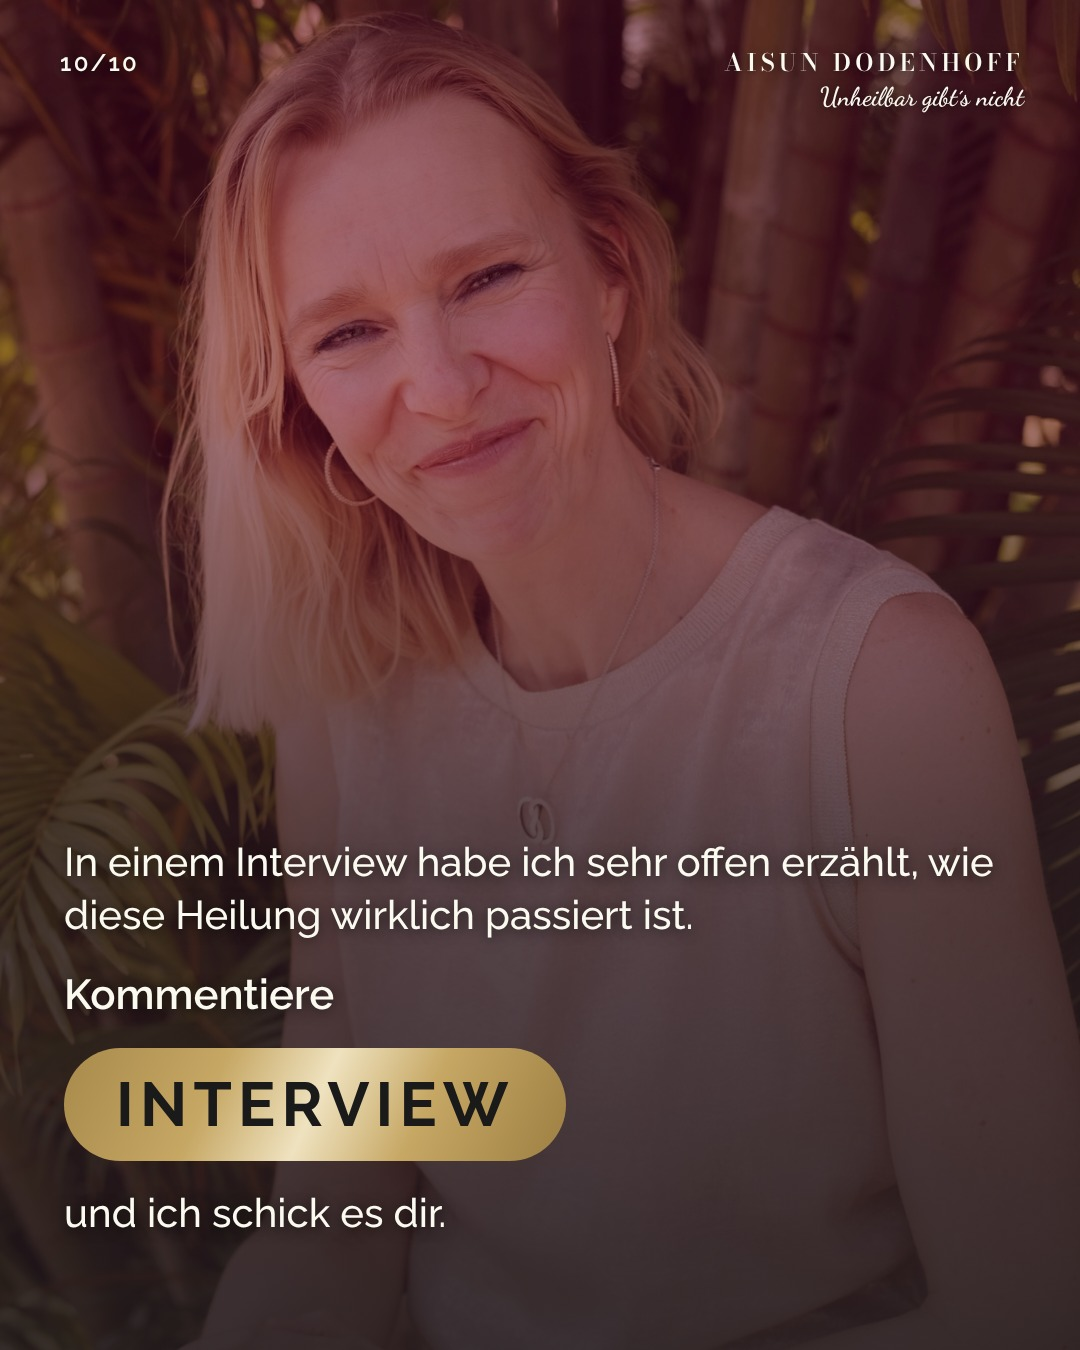
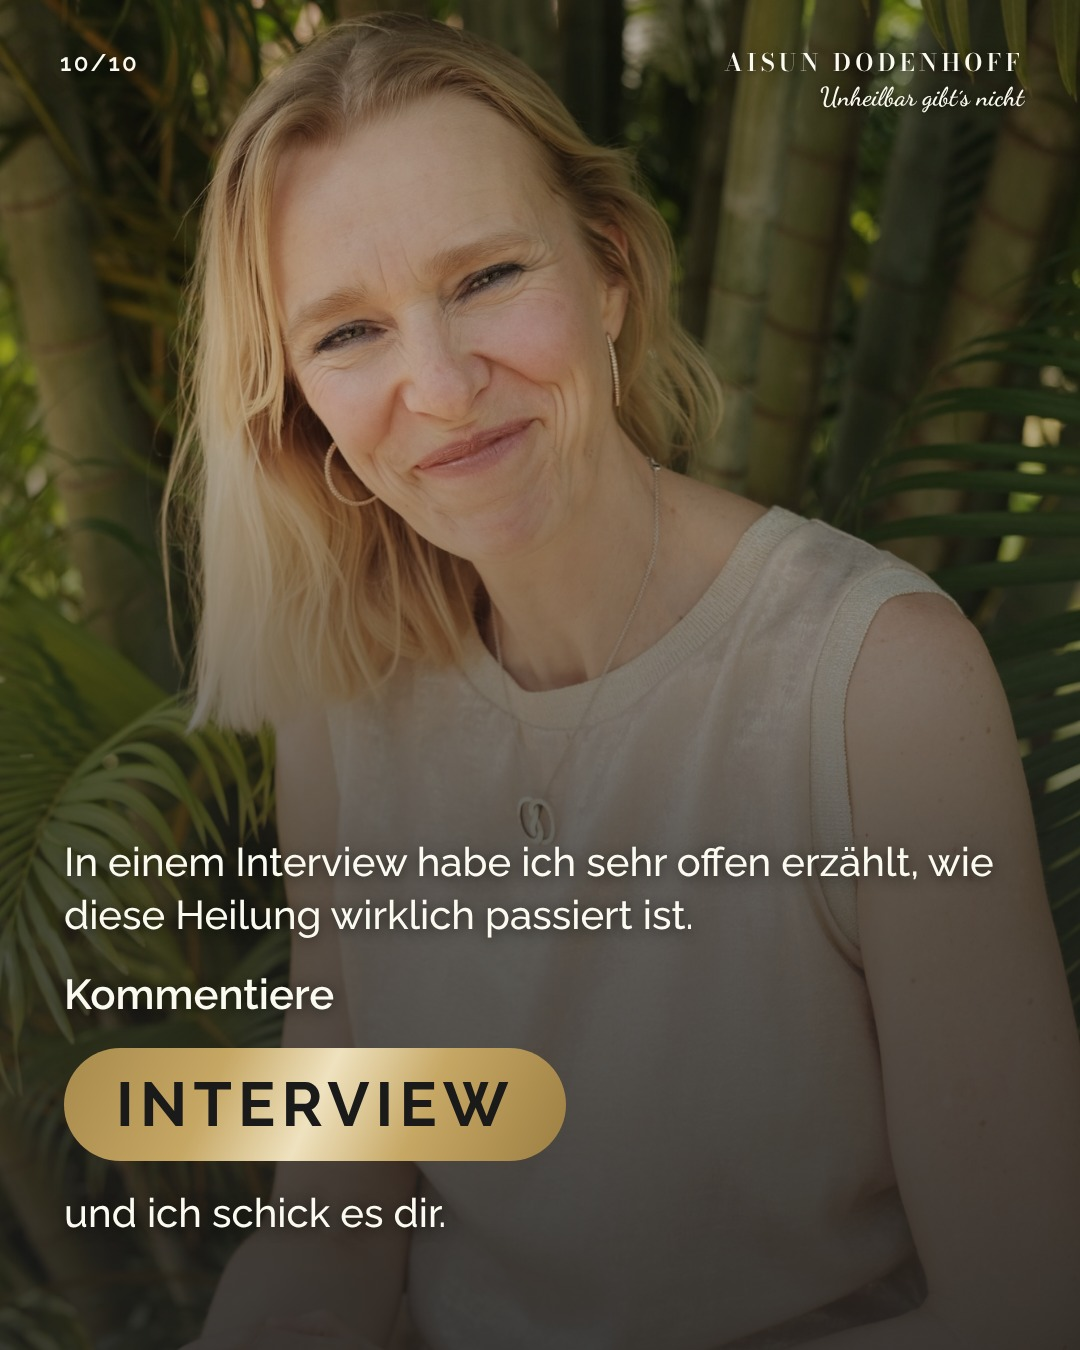
Karussell: neutrale Abdunklung statt Beere (rosastichig), Fotos aus Indien, Lernzeilen

diff --git a/content/entwuerfe/ueber-mich-story/gen.py b/content/entwuerfe/ueber-mich-story/gen.py
@@ -3,15 +3,15 @@ P="/home/user/ceo-table/content/entwuerfe/ueber-mich/fotos/"
 # (foto, bg-pos, overlay, anker, html)
 S=[
  ("f05.jpg","50% 18%",.30,"b",'<div class="q">„Darm<br>entfernen.“</div><p>Das war am Ende die Empfehlung.<br>Nach über 20 Jahren Colitis ulcerosa.</p><p class="h">Ich habe <em>Stopp</em> gesagt.</p>'),
- ("f04.jpg","50% 15%",.45,"b",'<h2>Ich kannte das <em>System</em> von innen.</h2><p>Ich bin Diplom-Psychologin und ausgebildete Psychologische Psychotherapeutin. Ich habe in Kliniken gearbeitet, in ambulanten Praxen, im 50-Minuten-Takt, mit Krankenkassenanträgen und Dokumentationspflichten.</p>'),
- ("f09.jpg","50% 10%",.42,"b",'<ul><li>Cortison.</li><li>Medikamente.</li><li>Darmspiegelungen.</li><li>Schübe.</li></ul><p>Über 20 Jahre lang.</p><h2>Schulmedizinisch: <em>unheilbar.</em></h2>'),
- ("f08.jpg","50% 12%",.45,"b",'<p>Gleichzeitig war ich viele Jahre Unternehmensberaterin, unter anderem bei der Deutschen Bahn, auf <span style="white-space:nowrap">Top-Management-Ebene</span>. Zwei sehr unterschiedliche Welten.</p><p class="h">Und in beiden dieselbe Beobachtung:</p><h2>Die eigentlichen Ursachen bleiben fast immer <em>unsichtbar.</em></h2>'),
- ("f02.jpg","50% 45%",.50,"t",'<p>In der Therapie wurde ein Symptom behandelt. In der Beratung eine Struktur optimiert.</p><h2>Aber <em>warum</em> ist das überhaupt entstanden?</h2><p>Was will das System eigentlich sagen? Die Frage stellte kaum jemand. Ich habe sie gestellt.</p>'),
- ("f06.jpg","50% 15%",.45,"b",'<div class="yr">2016.</div><p>Da bin ich zum ersten Mal Uwe Albrecht und innerwise begegnet.</p><p class="h">In wenigen Tagen habe ich eine Tiefe erlebt, die ich in Jahren psychotherapeutischer Ausbildung nicht gesehen hatte.</p>'),
- ("f14.jpg","50% 15%",.45,"b",'<p>Ich habe energetisch gearbeitet.<br>Nicht von heute auf morgen,<br>mit Hilfe anderer energetischer Coaches.</p><h2>Und ich habe meine Colitis <em>geheilt.</em></h2><p class="s">Das ist meine Geschichte, keine Anleitung.</p>'),
- ("f07.jpg","50% 12%",.32,"b",'<p>Ich helfe dir nicht, indem ich deine Probleme für dich löse.</p><h2>Ich zeige dir, wie du wieder Zugang zu deiner eigenen <em>Wahrnehmung</em> findest.</h2><p>Und zu deiner Entscheidungsfähigkeit.</p>'),
- ("f12.jpg","55% 25%",.34,"b",'<h2 class="m">Der wichtigste Experte für deinen Körper <em>bist du selbst.</em></h2>'),
- ("f15.jpg","50% 14%",.40,"b",'<p>In einem Interview habe ich sehr offen erzählt, wie diese Heilung wirklich passiert ist.</p><p class="h">Kommentiere</p><div class="kw">INTERVIEW</div><p>und ich schick es dir.</p>'),
+ ("f04.jpg","50% 15%",.30,"b",'<h2>Ich kannte das <em>System</em> von innen.</h2><p>Ich bin Diplom-Psychologin und ausgebildete Psychologische Psychotherapeutin. Ich habe in Kliniken gearbeitet, in ambulanten Praxen, im 50-Minuten-Takt, mit Krankenkassenanträgen und Dokumentationspflichten.</p>'),
+ ("f09.jpg","50% 10%",.30,"b",'<ul><li>Cortison.</li><li>Medikamente.</li><li>Darmspiegelungen.</li><li>Schübe.</li></ul><p>Über 20 Jahre lang.</p><h2>Schulmedizinisch: <em>unheilbar.</em></h2>'),
+ ("f08.jpg","50% 12%",.30,"b",'<p>Gleichzeitig war ich viele Jahre Unternehmensberaterin, unter anderem bei der Deutschen Bahn, auf <span style="white-space:nowrap">Top-Management-Ebene</span>. Zwei sehr unterschiedliche Welten.</p><p class="h">Und in beiden dieselbe Beobachtung:</p><h2>Die eigentlichen Ursachen bleiben fast immer <em>unsichtbar.</em></h2>'),
+ ("f02.jpg","50% 45%",.30,"t",'<p>In der Therapie wurde ein Symptom behandelt. In der Beratung eine Struktur optimiert.</p><h2>Aber <em>warum</em> ist das überhaupt entstanden?</h2><p>Was will das System eigentlich sagen? Die Frage stellte kaum jemand. Ich habe sie gestellt.</p>'),
+ ("f06.jpg","50% 15%",.30,"b",'<div class="yr">2016.</div><p>Da bin ich zum ersten Mal Uwe Albrecht und innerwise begegnet.</p><p class="h">In wenigen Tagen habe ich eine Tiefe erlebt, die ich in Jahren psychotherapeutischer Ausbildung nicht gesehen hatte.</p>'),
+ ("f14.jpg","50% 15%",.30,"b",'<p>Ich habe energetisch gearbeitet.<br>Nicht von heute auf morgen,<br>mit Hilfe anderer energetischer Coaches.</p><h2>Und ich habe meine Colitis <em>geheilt.</em></h2><p class="s">Das ist meine Geschichte, keine Anleitung.</p>'),
+ ("f07.jpg","50% 12%",.30,"b",'<p>Ich helfe dir nicht, indem ich deine Probleme für dich löse.</p><h2>Ich zeige dir, wie du wieder Zugang zu deiner eigenen <em>Wahrnehmung</em> findest.</h2><p>Und zu deiner Entscheidungsfähigkeit.</p>'),
+ ("f12.jpg","55% 25%",.30,"b",'<h2 class="m">Der wichtigste Experte für deinen Körper <em>bist du selbst.</em></h2>'),
+ ("f15.jpg","50% 14%",.30,"b",'<p>In einem Interview habe ich sehr offen erzählt, wie diese Heilung wirklich passiert ist.</p><p class="h">Kommentiere</p><div class="kw">INTERVIEW</div><p>und ich schick es dir.</p>'),
 ]
 css="""*{margin:0;padding:0;box-sizing:border-box}html,body{width:1080px;height:1350px;overflow:hidden;background:#1A1A1A}
 .bg{position:absolute;inset:0;width:100%;height:100%;object-fit:cover}
@@ -34,5 +34,5 @@ css="""*{margin:0;padding:0;box-sizing:border-box}html,body{width:1080px;height:
 head='<!doctype html><html lang="de"><head><meta charset="utf-8"><link href="https://fonts.googleapis.com/css2?family=Bodoni+Moda:ital,opsz,wght@0,6..96,400..800;1,6..96,400..800&family=Raleway:ital,wght@0,500;0,600;0,700;1,500&family=Dancing+Script:wght@500..700&display=swap" rel="stylesheet"><style>'+css+'</style></head><body>'
 for i,(f,pos,dk,anc,html) in enumerate(S,1):
     grad = "linear-gradient(0deg,rgba(26,26,26,.78) 0%,rgba(26,26,26,.55) 38%,rgba(26,26,26,0) 70%)" if anc=="b" else "linear-gradient(180deg,rgba(26,26,26,.78) 0%,rgba(26,26,26,.5) 40%,rgba(26,26,26,0) 72%)"
-    d=head+f'<img class="bg" src="file://{P}{f}" style="object-position:{pos}"><div class="ov" style="background:rgba(115,1,58,{dk})"></div><div class="ov" style="background:rgba(0,0,0,.16)"></div><div class="ov" style="background:{grad}"></div><div class="brand">AISUN DODENHOFF<i>Unheilbar gibt´s nicht</i></div><div class="n">{i}/10</div><div class="tx {anc}">{html}</div>'+('<div class="sw">WEITER →</div>' if i<10 else '')+'</body></html>'
+    d=head+f'<img class="bg" src="file://{P}{f}" style="object-position:{pos}"><div class="ov" style="background:rgba(26,26,26,{dk})"></div><div class="ov" style="background:{grad}"></div><div class="brand">AISUN DODENHOFF<i>Unheilbar gibt´s nicht</i></div><div class="n">{i}/10</div><div class="tx {anc}">{html}</div>'+('<div class="sw">WEITER →</div>' if i<10 else '')+'</body></html>'
     open(f'/tmp/claude-0/-home-user-ceo-table/98fccc0b-51e2-52b4-9177-97ef7eb9be37/scratchpad/us{i:02d}.html','w').write(d)

diff --git a/content/entwuerfe/ueber-mich/gen3.py b/content/entwuerfe/ueber-mich/gen3.py
@@ -6,7 +6,7 @@ S=[
    L("Diplom-Psychologin,<br>ehemalige<br>Psychotherapeutin","r",170,39,0),L("Mentorin für<br>energetische<br>Selbstheilung","r",430,40,0),L("Generatorin 4/6","r",640,40,2),L("Berlin · Heidenheim","r",750,40,0)]),
  dict(img="f10.jpg",pos="50% 60%",dark=.30,title="Dinge, die ich liebe",trot=0,tsize=104,labels=[
    L("Laufen,<br>jeden Morgen","l",330,44,0),L("Meine Familie","l",520,48,-2),L("Sauna im<br>eigenen Garten","l",680,44,0),
-   L("Frauen begleiten,<br>die ihre eigene<br>Heilerin werden","r",300,44,0),L("Rohkakao","r",560,44,0),L("Reisen<br><small>(hier: Ägypten)</small>","r",700,40,2),L("Abwechslung","r",880,44,0)]),
+   L("Frauen begleiten,<br>die ihre eigene<br>Heilerin werden","r",300,44,0),L("Rohkakao","r",560,44,0),L("Reisen<br><small>(hier: Indien)</small>","r",700,40,2),L("Abwechslung","r",880,44,0)]),
  dict(img="f09.jpg",pos="50% 30%",dark=.45,title="Meine tiefsten Täler",trot=0,tsize=104,labels=[
    L("Meine Schwester<br>starb 2023<br>an Krebs","l",380,40,0),L("1 Fehlgeburt<br>2023","l",640,40,0),L("Sexueller<br>Missbrauch","l",860,40,0),
    L("22 Jahre<br>Colitis Ulcerosa","r",380,40,0),L("2x geschieden","r",640,40,0),L("Meine Tochter<br>starb 2011<br>bei der Geburt","r",840,40,0)]),

diff --git a/lernen/gelernt.md b/lernen/gelernt.md
@@ -47,4 +47,6 @@ Gilt für alle Agentinnen. Sebastian pflegt diese Datei, eine Zeile pro Erkenntn
 - Visuelle Entwürfe nie ohne Abnahme der fertigen Bilder durch Greta vorlegen. Aisun tritt als seriöse Expertin auf: Überschriften gerade, ruhig; Schräges nur sparsam bei einzelnen Punkten (25.10.2026).
 - 28.10.2026: Nie direkt losbauen, auch nicht bei fertigem Briefing. Erst CEO-Prüfung (Bestand, Überschneidungen, Sinn, Lücken, Herkunft), dann Empfehlung an Aisun, dann bauen. Anlass: Content-Tab gebaut, ohne das leere Trello-Board, die Freigabe-Pakete und Sinas Wochentags-Daten zu prüfen.
 - 2.11.2026: Bei Funnel-, Mail- und Anzeigenfragen erst das Gesamtsystem einordnen (Anzeigen → Aufwärmen → Launch → Folgeprodukte, was soll jeder Teil leisten?), dann Details. Eine Anzeigen-Bilanz nie ohne den Launch bewerten. Aisun will Entscheidungen und Zusammenhänge, keine Wording-Listen. Anlass: Nurture-Analyse mit Einzelwörtern und „Gewinn −4.136 €“ ohne Launch-Bezug.
-- 2026-11-06 – KI-Klang vermeiden (Aisun): Wenn Aisun einen eigenen Text liefert (Newsletter, Interview), die Slides und die Caption aus ihren Originalsätzen bauen, nicht neu formulieren. Kein „Nicht X, sondern Y“, kein „Genau deshalb.“, keine Erzählung im Präsens („Ich lerne … kennen“), keine selbst erfundenen Zusatzsätze. Vor Vorlage jede Zeile gegen den Originaltext prüfen.
+- 2026-11-06 – KI-Klang vermeiden (Aisun): Verboten ist das Muster „Nicht X, sondern Y“ (auch „Du brauchst nicht … Werde …“), dazu Knallersätze wie „Genau deshalb.“ und Erzählen im Präsens. Aisuns Originalsätze müssen nicht 1:1 bleiben, Optimieren ist ausdrücklich erlaubt, es soll nur nie nach KI klingen. Keine Zusatzbehauptungen erfinden, die nicht von ihr stammen.
+- 2026-11-06 – Die Fotos in `content/entwuerfe/ueber-mich/fotos/` (beiger Look, Palmen) sind aus **Indien**, nicht aus Ägypten (Aisun). Nie „Ägypten“ dazu schreiben.
+- 2026-11-06 – Bildfarbe: Auf dem Handy wirkten Karussells mit Beere-Overlay rosastichig. Fotos nur neutral abdunkeln (schwarzer Verlauf), Beere höchstens ganz dezent (max. 12 %), und immer am Handy gegenprüfen.

diff --git a/content/entwuerfe/ueber-mich-story/karussell-text.md b/content/entwuerfe/ueber-mich-story/karussell-text.md
@@ -11,7 +11,7 @@ Status: Text-Entwurf, Gate bestanden (9/10). Noch NICHT gebaut, NICHT freigegebe
 - **Phase:** Reichweite / Aufwärmen. **Keyword:** **KOMPASS** (aus der echten Map, Heilkompass, 0 €).
 - **Blickwinkel:** Ich-Geschichte aus beiden Rollen (Insiderin des Systems und Betroffene). **Tonfall:** ruhig, klar, mit einer scharfen Kante auf Slide 1. Kein Pathos.
 - **Posting:** Mo bis Fr 12 Uhr, Termin nach Aisuns Freigabe.
-- **Look:** Foto aus dem Ägypten-Set (beiger Look, Palmen) im Hintergrund jeder Slide, Beere-Overlay `#73013A` 55 bis 65 %, Headline Bauer Bodoni (HTML-Fallback Bodoni Moda 500, opsz 11) in Creme `#FBFAF0`, Fließtext Raleway 500. Eine Akzentfarbe: Gold `#C6A764`, nur auf dunklem Grund. Format 4:5 (1080 × 1350), Slide-Zähler oben rechts, Gesicht nie vom Text verdeckt.
+- **Look:** Foto aus dem Indien-Set (beiger Look, Palmen) im Hintergrund jeder Slide, Beere-Overlay `#73013A` 55 bis 65 %, Headline Bauer Bodoni (HTML-Fallback Bodoni Moda 500, opsz 11) in Creme `#FBFAF0`, Fließtext Raleway 500. Eine Akzentfarbe: Gold `#C6A764`, nur auf dunklem Grund. Format 4:5 (1080 × 1350), Slide-Zähler oben rechts, Gesicht nie vom Text verdeckt.
 
 **Titel-Hinweis (aktualisiert 6.11.):** Aisun hat entschieden: „ausgebildete Psychologische Psychotherapeutin“ bleibt in Werdegangs- und Selbstvorstellungs-Texten, sofern klar ist, dass sie nicht mehr als solche arbeitet.
 

diff --git a/content/entwuerfe/ueber-mich/konzept.md b/content/entwuerfe/ueber-mich/konzept.md
@@ -5,3 +5,5 @@ Slides: 1 Das bin ich · 2 Dinge, die ich liebe · 3 Meine tiefsten Täler · 4 
 Hook-Alternativen Slide 1: „19x umgezogen. 2x geschieden. 0,0 Alkohol. Hi, ich bin Aisun.“ · „22 Jahre krank. „Unheilbar“, hieß es. Das bin ich.“
 Caption-Entwurf: siehe Sina-Bericht im Chat 25.10. (endet mit Wort-CTA, Suchbegriffe DIPLOM-PSYCHOLOGIN, ENERGETISCHE SELBSTHEILUNG, INNERWISE, COLITIS ULCEROSA)
 Offen: Diplom-Jahr/Uni, Zahl Coaches, Buchtitel, Hundemama, Einverständnis Klientin Foto Slide 5, ManyChat erkennt Wörter im Satz?
+
+Korrektur 6.11.2026 (Aisun): Die Fotos in `fotos/` sind aus **Indien**, nicht aus Ägypten. Slide 2 (u-02.jpg) nennt noch „hier: Ägypten“ im Bild und muss vor jeder Nutzung neu gerendert werden (gen3.py ist korrigiert).
